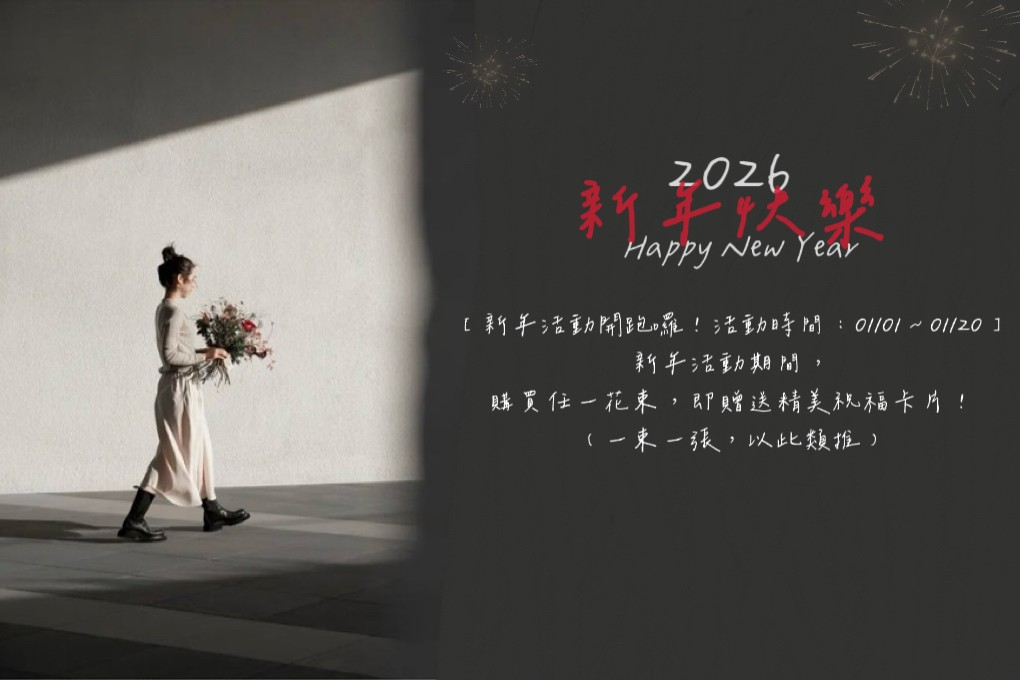
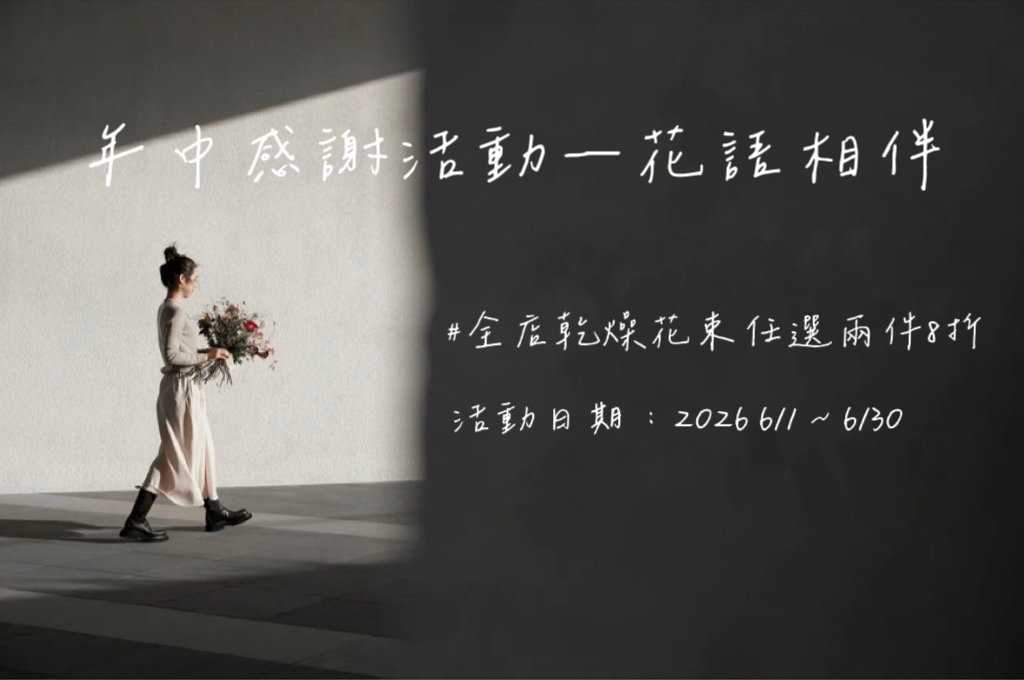
改圖片

diff --git a/utils/side-menu/style.css b/utils/side-menu/style.css
@@ -24,14 +24,19 @@
     align-items: center;
     padding-bottom: 15px;
     color: #705844;
-    font-size: 1.1rem;
+    
     border-bottom: 1.5px solid #A3A69C;
     margin-bottom: 20px;
 }
 
+.header h2{
+    font-size: 1.3rem;
+
+}
+
 .header i {
     cursor: pointer;
-    font-size: 1.3rem;
+    font-size: 1.2rem;
     color: #705844;
     transition: 0.3s;
 }
